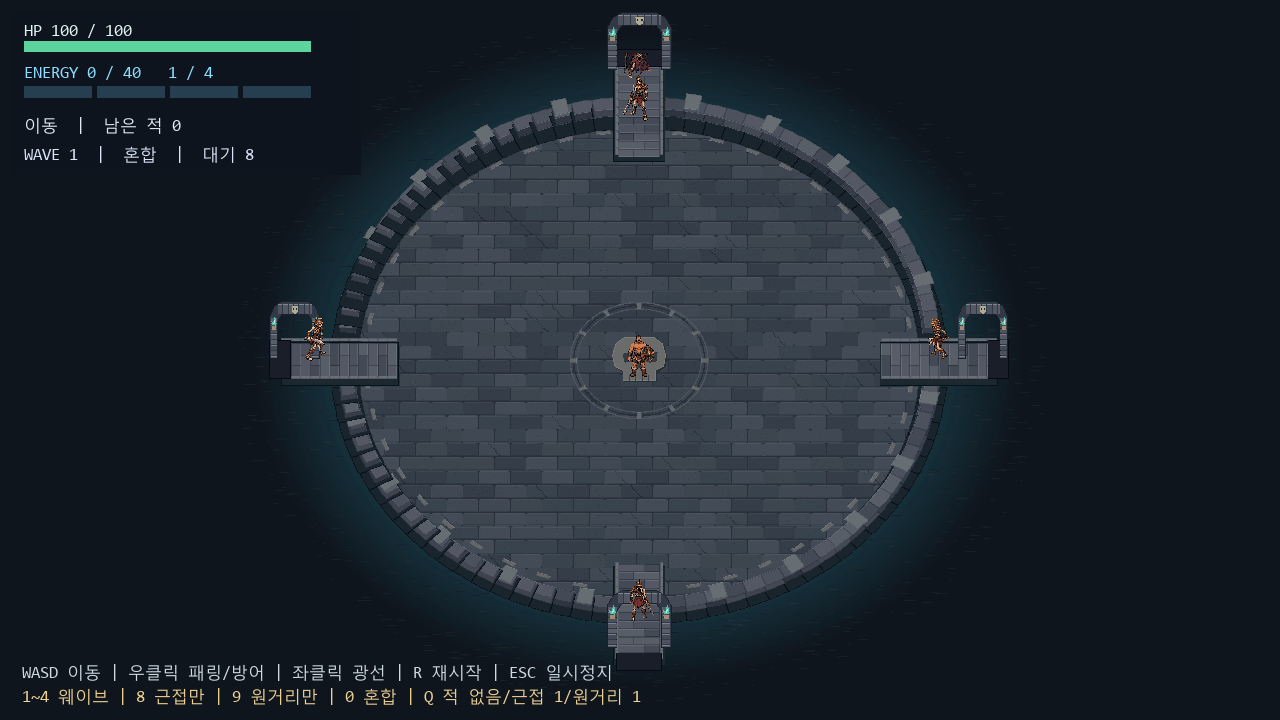
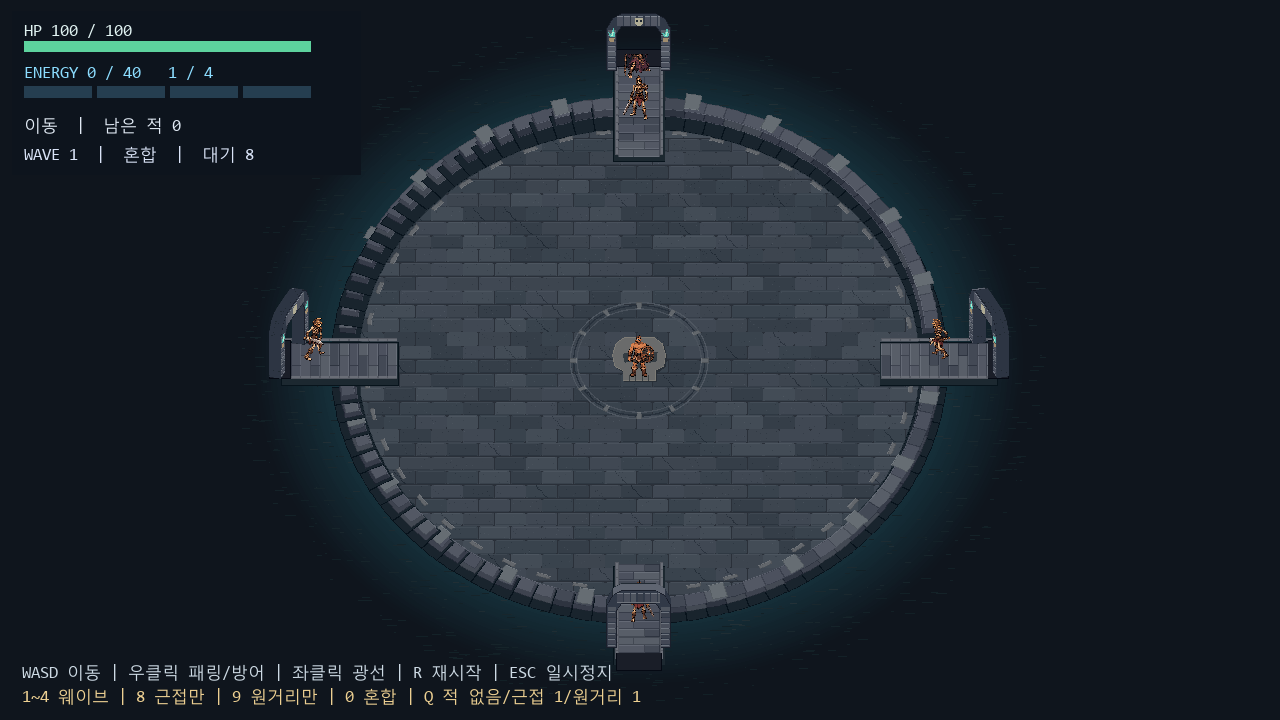
몸에 닿기 전 탄환 패링을 자동 검증

diff --git a/patch_autopilot.py b/patch_autopilot.py
@@ -12,7 +12,8 @@ from wave_data import GATES, RANGED
 class PatchRound:
     checks = ('gates-open-and-enemies-cross', 'arena-loads', 'parry-moves-enemy',
               'beam-three-pulses', 'ranged-fires',
-              'player-hit-flashes', 'enemies-stay-apart', 'walking-guard-blocks-side')
+              'player-hit-flashes', 'enemies-stay-apart', 'walking-guard-blocks-side',
+              'parry-reaches-incoming-bolt')
 
     def __init__(self, mode, report):
         self.mode = mode
@@ -25,6 +26,7 @@ class PatchRound:
         self.beam = None
         self.hit_colors = []
         self.side_shot = None
+        self.parry_shot = None
         self.saw_partial_entry = False
         self.gates_started_closed = all(mode.waves.gate_opening(gate) == 0 for gate in GATES)
 
@@ -65,7 +67,7 @@ class PatchRound:
                 player.pressed_keys.add(pico2d.SDLK_w)
                 self.write('pass')
         elif self.index == 1 and self.age >= 1.15:
-            if len(self.mode.arena.art) == 3 and player.y > 26 and player.visual_motion == 'run':
+            if self.mode.arena.gate_cell and player.y > 26 and player.visual_motion == 'run':
                 player.pressed_keys.clear()
                 self.spawn('melee', 0)
                 self.enemy.x += self.enemy.attack_distance(0) + .8
@@ -117,4 +119,20 @@ class PatchRound:
                 if self.side_shot.result != 'block':
                     self.write('fail', ': side projectile was not blocked during guard walk')
                 elif self.age >= 1.55:
+                    player.pressed_keys.clear()
+                    combat.right_up()
                     self.write('pass')
+        elif self.index == 8:
+            if self.parry_shot is None:
+                combat.aim = 0
+                combat.right_down()
+                reach = combat.settings['parry_radius_m']
+                self.parry_shot = Projectile('parry-distance', player.x + reach + 1, player.y,
+                                             pi, RANGED['ranged'], player)
+                self.mode.waves.add_projectile(self.parry_shot)
+            elif self.parry_shot.result:
+                gap = self.parry_shot.x - self.parry_shot.radius - player.get_bb()[2]
+                if self.parry_shot.result == 'parry' and gap > 1:
+                    self.write('pass')
+                else:
+                    self.write('fail', ': the projectile reached the body before being parried')
